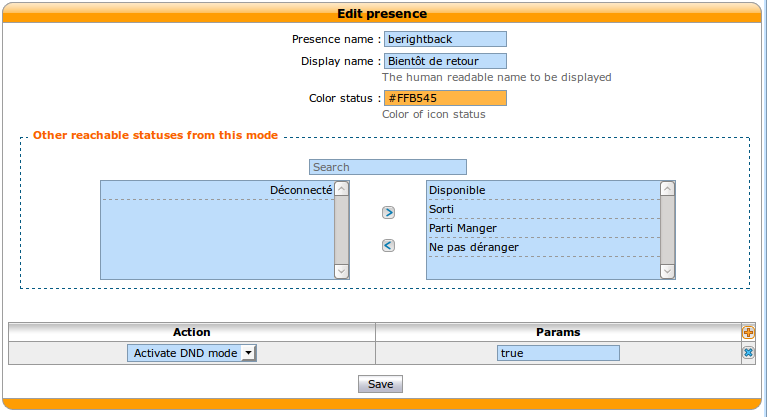
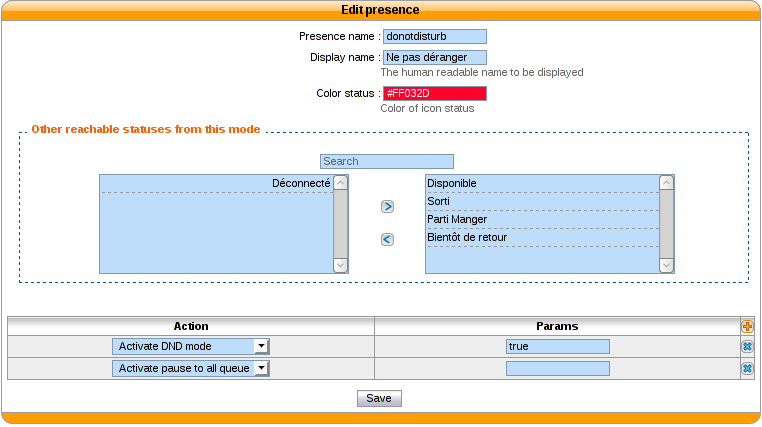
[evol] update actions on presence update in cti server

Changed region(s): [[0.0, 0.0, 1.0, 1.0], [0.1207, 0.3429, 0.9055, 0.6859]]

diff --git a/source/administration/ctiserver/ctiserver.rst b/source/administration/ctiserver/ctiserver.rst
@@ -105,11 +105,13 @@ Available configuration
 Actions
 ^^^^^^^
 
-=========== ==================
-action      param
-=========== ==================
-`enablednd` `{'true','false'}`
-=========== ==================
+============================= ==================
+action                        param
+============================= ==================
+`Enable DND`                  `{'true','false'}`
+`Pause agent in all queues`  
+`Unpause agent in all queues`
+============================= ==================
 
 Sheets
 ------
